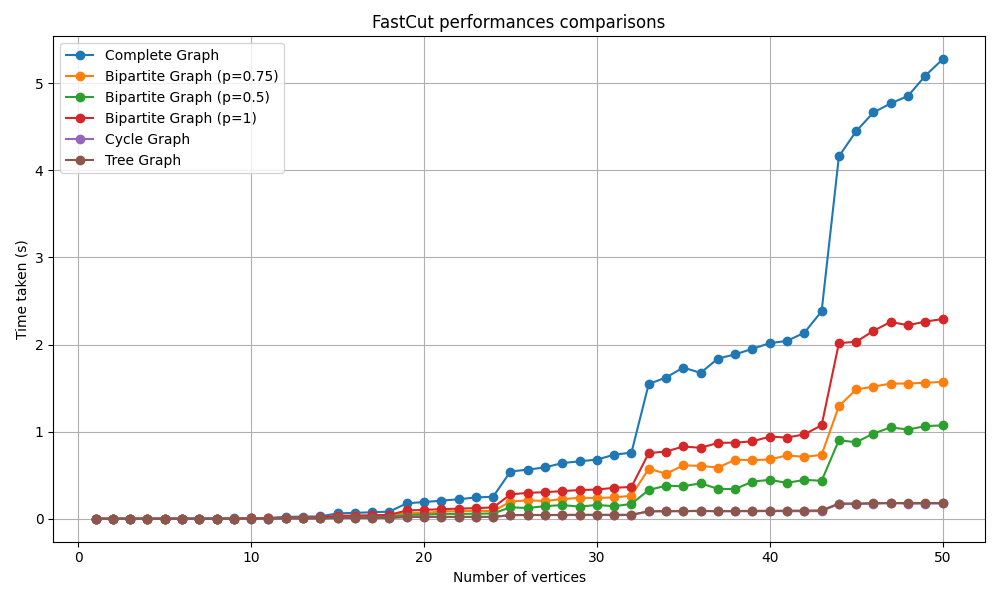
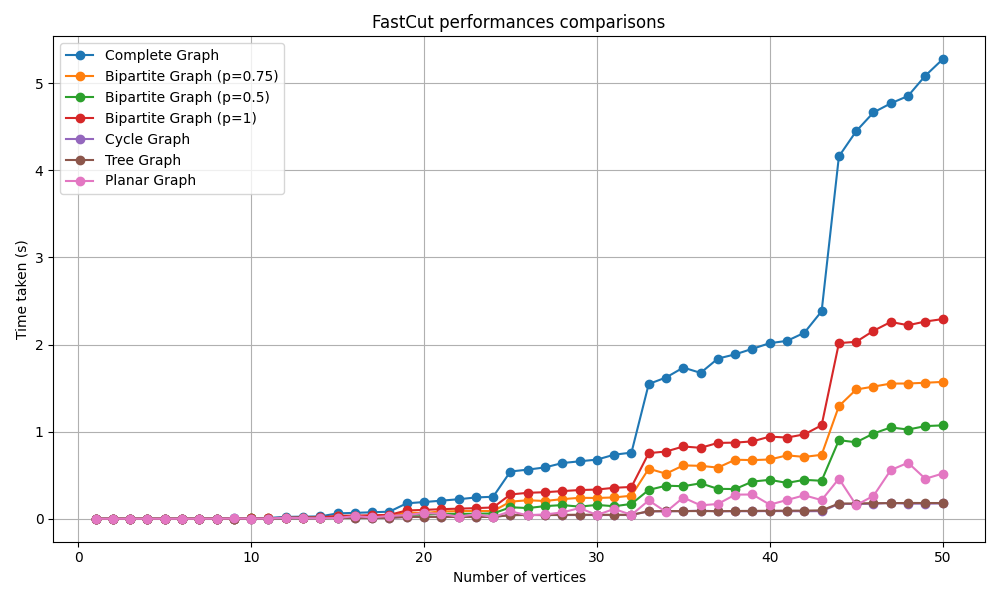
debut graphs

Changed region(s): [[0.093, 0.75, 0.961, 0.87], [0.062, 0.27, 0.217, 0.33]]

diff --git a/Homework 2/plot.py b/Homework 2/plot.py
@@ -87,8 +87,9 @@ def plot_lines():
                 0.08713002204895019, 0.08601770401000977, 0.087664794921875, 0.17014060020446778, 
                 0.17030272483825684, 0.17164931297302247, 0.18279657363891602, 0.17244930267333985, 
                 0.1743234634399414, 0.17513549842834474]
-    #multigraphs = []
-    #planar_graphs = []
+    multigraphs = [[9.185791015625e-05, 8], [0.0007615089416503906, 10], [2.574920654296875e-07, 11], [4.076004028320313e-05, 12], [0.0012469863891601562, 13], [0.0048094654083251955, 14], [0.006827306747436523, 18], [0.00908259391784668, 19], [0.008231210708618163, 23], [5.960464477539062e-07, 25], [0.02349412441253662, 28], [0.0028373241424560548, 32], [0.00016720294952392577, 33], [0.009408831596374512, 34], [0.017172956466674806, 35], [1.5735626220703124e-06, 37], [0.006364774703979492, 39], [0.007936048507690429, 42], [0.0019209861755371093, 43], [0.015498685836791991, 44], [8.821487426757812e-06, 48], [0.05223441123962402, 50]]
+    # v2 = int(vertices*(4*random.random()))
+    planar_graphs = [4.1961669921875e-07, 2.765655517578125e-06, 4.6539306640625e-06, 1.2731552124023437e-05, 3.436088562011719e-05, 0.000119171142578125, 0.0002524566650390625, 0.0008048343658447265, 0.0029601955413818357, 0.0021674442291259766, 0.0021722602844238283, 0.011241168975830078, 0.0075807952880859375, 0.004457492828369141, 0.009295768737792968, 0.02973146438598633, 0.015394763946533203, 0.03262368202209473, 0.04226648330688477, 0.06606844902038574, 0.05700173377990723, 0.022449755668640138, 0.052620434761047365, 0.019454455375671385, 0.08550000190734863, 0.03903801441192627, 0.04955046176910401, 0.0725567102432251, 0.12270870208740234, 0.043143486976623534, 0.1122363805770874, 0.04441545009613037, 0.21033000946044922, 0.07885885238647461, 0.24364619255065917, 0.15404338836669923, 0.16946687698364257, 0.2769505977630615, 0.27843451499938965, 0.16195302009582518, 0.21532030105590821, 0.26930060386657717, 0.2137906551361084, 0.4601102352142334, 0.15685782432556153, 0.2626064300537109, 0.5589766502380371, 0.6429465770721435, 0.45883975028991697,0.51883975028991697]
 
     ########
     # PLOT #
@@ -108,6 +109,7 @@ def plot_lines():
     plt.plot(x_values, bipartite_graphs_proba_1, label="Bipartite Graph (p=1)", marker="o")
     plt.plot(x_values, cycles, label="Cycle Graph", marker="o")
     plt.plot(x_values, tree_graphs, label="Tree Graph", marker="o")
+    plt.plot(x_values, planar_graphs, label="Planar Graph", marker="o")
 
     # Adding labels and title
     plt.xlabel("Number of vertices")

diff --git a/Homework 2/main.py b/Homework 2/main.py
@@ -29,36 +29,40 @@ def prepare_node(temp):
 
 def test(n):
     all_times = []
-    for vertices in range(1, 50):
+    for vertices in range(7, 51):
         print("Nbr vertices :",vertices)
         #v1 = vertices//2
         #v2 = vertices-v1
         #print("V1 :",v1,"V2 :",v2)
-        v2 = int(vertices*10*random.random())
+        v2 = int(vertices*(2*random.random()))
         print("Vertices :",vertices,"v2",v2)
-        graph = planar_graph(vertices, v2) 
+        graph = multigraph(vertices, v2) 
         
-        
-        whole_timer = 0
-        if vertices > 20:
-            if vertices <35:
-                n = 10
-            else:
-                n = 5
-        for _ in range(n):
-            graph_copy = deepcopy(graph)
-            timer = time.time()
-            fastCut(graph_copy)
-            timer = time.time() - timer
-            whole_timer += timer
-        all_times.append(whole_timer/n)
+        try:
+            whole_timer = 0
+            if vertices > 20:
+                if vertices <35:
+                    n = 10
+                else:
+                    n = 5
+            for _ in range(n):
+                print(_)
+                graph_copy = deepcopy(graph)
+                timer = time.time()
+                fastCut(graph_copy)
+                timer = time.time() - timer
+                whole_timer += timer
+            all_times.append([whole_timer/n, vertices])
+        except ValueError:
+            print(all_times)
 
 
     print(all_times)
 
 def main():
     test(25)
-    #G = tree_graph(50)
+    #G = planar_graph(25,100)
+    #fastCut(G)
     #draw_graph(G)
     #graph = multigraph(6, 11)
     # graph = complete_graph(25)
